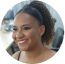
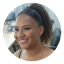
:bug: fix Listeners border-radios problem

diff --git a/components/CardForm/index.tsx b/components/CardForm/index.tsx
@@ -7,6 +7,8 @@ import Button from 'react-bootstrap/Button';
 import './styles.module.css';
 import styles from './styles.module.css';
 import img from '../../public/LOGO_EVENTO.png';
+import { GrCertificate } from "react-icons/gr";
+import { FaWhatsapp } from "react-icons/fa";
 
 const CardForm = () => {
     const [showToast, setShowToast] = useState(false);
@@ -61,11 +63,23 @@ const CardForm = () => {
                 />
                 <div className={styles.line}>
                     <input className={styles.check} type="checkbox" required name="LGPD" onChange={handleCheckboxChange} checked={lgpd} />
-                    <p className={styles.small_text}>Estou de acordo com <Link href="/politica-privacidade"><span className={styles.privacy__link}><strong>Política de Privacidade</strong></span></Link> da Vulpes Idiomas</p>
+                    <p className={styles.small_text_agree}>Estou de acordo com a <Link href="/politica-privacidade"><a target="_blank" rel="noopener noreferrer"><span className={styles.privacy__link}><strong>Política de Privacidade</strong></span></a></Link> da Vulpes Idiomas</p>
                 </div>
 
                 <Button type='submit' className={styles.button} disabled={!isFormValid()}><b>QUERO PARTICIPAR DO BUSINESS CLASS</b></Button>
-                <p className={styles.small_text}><b>10 DE ABRIL (SEGUNDA-FEIRA), ÀS 20H <br />BUSINESSCLASS 100% ONLINE E GRATUITA</b></p>
+                <p className={styles.small_text}><b>10 DE ABRIL, ÀS 20 HORAS • 100% ONLINE E GRATUITA</b></p>
+                <div className={styles.break__line}></div>
+
+                <div className={styles.bonus__area}>
+                    <div className={styles.each__bonus}>
+                        <GrCertificate className={styles.icons} />
+                        <span className={styles.bonus}>Certificado</span>
+                    </div>
+                    <div className={styles.each__bonus}>
+                        <FaWhatsapp className={styles.icons} />
+                        <span className={styles.bonus}>Grupo no Whatsapp</span>
+                    </div>
+                </div>
             </Form>
 
             <Toast show={showToast} onClose={() => setShowToast(false)} autohide delay={3000} className={styles.toast}>

diff --git a/components/CardForm/styles.module.css b/components/CardForm/styles.module.css
@@ -16,7 +16,13 @@
     max-width: 85%;
 }
 
-.privacy__link :hover {
+.break__line {
+    width: 86%;
+    margin-block: 0.4rem;
+    border-bottom: 1px solid #cacaca;
+}
+
+.privacy__link:hover {
     color: var(--text-blue-color);
     cursor: pointer;
 }
@@ -59,9 +65,27 @@
 }
 
 
-.small_text {
+.small_text,
+.small_text_agree {
     color: var(--text-dark-color);
     width: 26rem;
+}
+
+.bonus__area {
+    width: 80%;
+    display: flex;
+    flex-direction: row;
+    gap: 1rem;
+}
+
+.each__bonus {
+    display: flex;
+    flex-direction: row;
+}
+
+.icons {
+    font-size: 1.4rem;
+    margin-right: 0.4rem;
 }
 
 .toast {
@@ -95,16 +119,30 @@
         padding: .9rem .8rem;
     }
 
-    .small_text {
+    .small_text,
+    .small_text_agree {
         font-size: .8rem;
         width: 20rem;
+    }
+
+    .icons {
+        font-size: 1rem;
+    }
+
+    .bonus {
+        font-size: .8rem;
     }
 }
 
 @media (max-width: 600px) {
+    .form_box {
+        padding-left: 0;
+    }
+
     .titulo {
         font-size: 0.9rem;
         line-height: 1.2rem;
+        margin-top: 1rem;
     }
 
     .form_box {
@@ -123,8 +161,23 @@
     }
 
     .small_text {
-        font-size: .6rem;
         width: 14rem;
+        font-size: .5rem;
+        text-align: center;
+    }
+    
+    .small_text_agree {
+        width: 11rem;
+        font-size: .5rem;
+        text-align: center;
+    }
+
+    .icons {
+        font-size: .9rem;
+    }
+
+    .bonus {
+        font-size: .6rem;
     }
 }
 

diff --git a/components/Footer/index.tsx b/components/Footer/index.tsx
@@ -9,7 +9,7 @@ const Footer = () => {
         <div className={styles.container}>
             <div><Link href="https://www.instagram.com/vulpesidiomas/"><FaInstagram className={styles.icon} /></Link></div>
             <div>Vulpes Idiomas · CNPJ 37.280.016/0001-05 · © 2023</div>
-            <div><Link href="/politica-privacidade">Politica de Privacidade</Link></div>
+            <div><Link href="/politica-privacidade" target='_blank'><a target="_blank" rel="noopener noreferrer">Politica de Privacidade</a></Link></div>
         </div>
     );
 };

diff --git a/components/Bonus/styles.module.css b/components/Bonus/styles.module.css
@@ -62,8 +62,8 @@
 }
 
 .image__circle {
-    outline: .2rem solid var(--text-blue-color);
-    outline-offset: .2rem;
+    border-collapse: collapse;
+    border: .2rem solid var(--text-blue-color);
     border-radius: 50%;
 }
 

diff --git a/views/Thumbnail/styles.module.css b/views/Thumbnail/styles.module.css
@@ -1,5 +1,6 @@
 .container {
     background: transparent url('../../public/DESKTOP/BG-01.jpg') 0% 0% no-repeat padding-box;
+    height: 55rem;
     width: 120rem;
     padding: 0;
     padding-right: 50rem;

diff --git a/components/Footer/styles.module.css b/components/Footer/styles.module.css
@@ -14,7 +14,6 @@
     width: 2rem;
 }
 
-
 @media (max-width: 600px) {
     .container {
         flex-direction: column;
